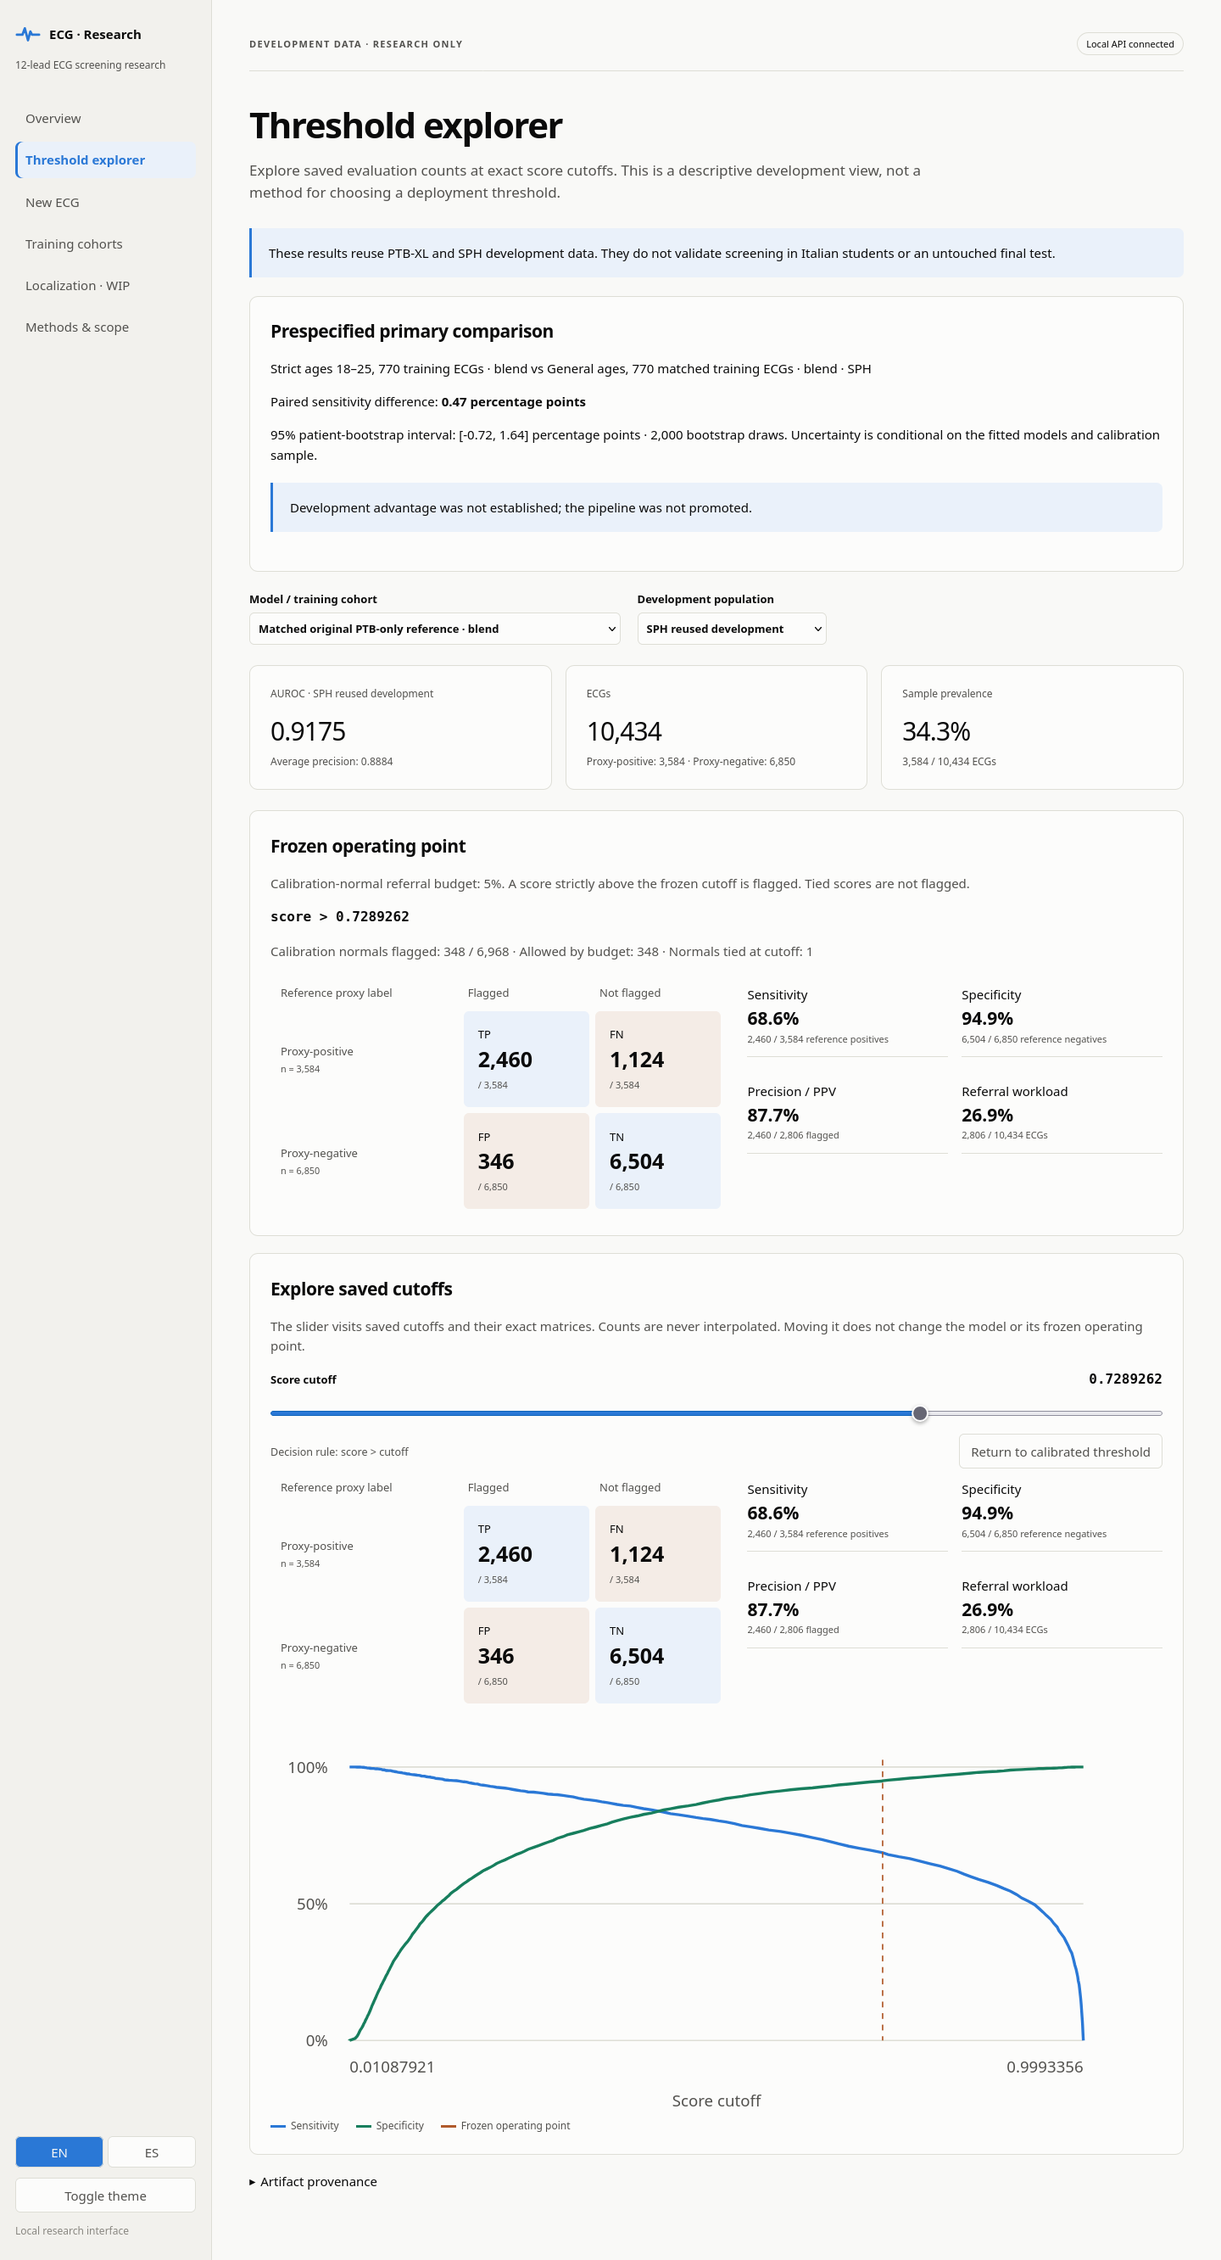
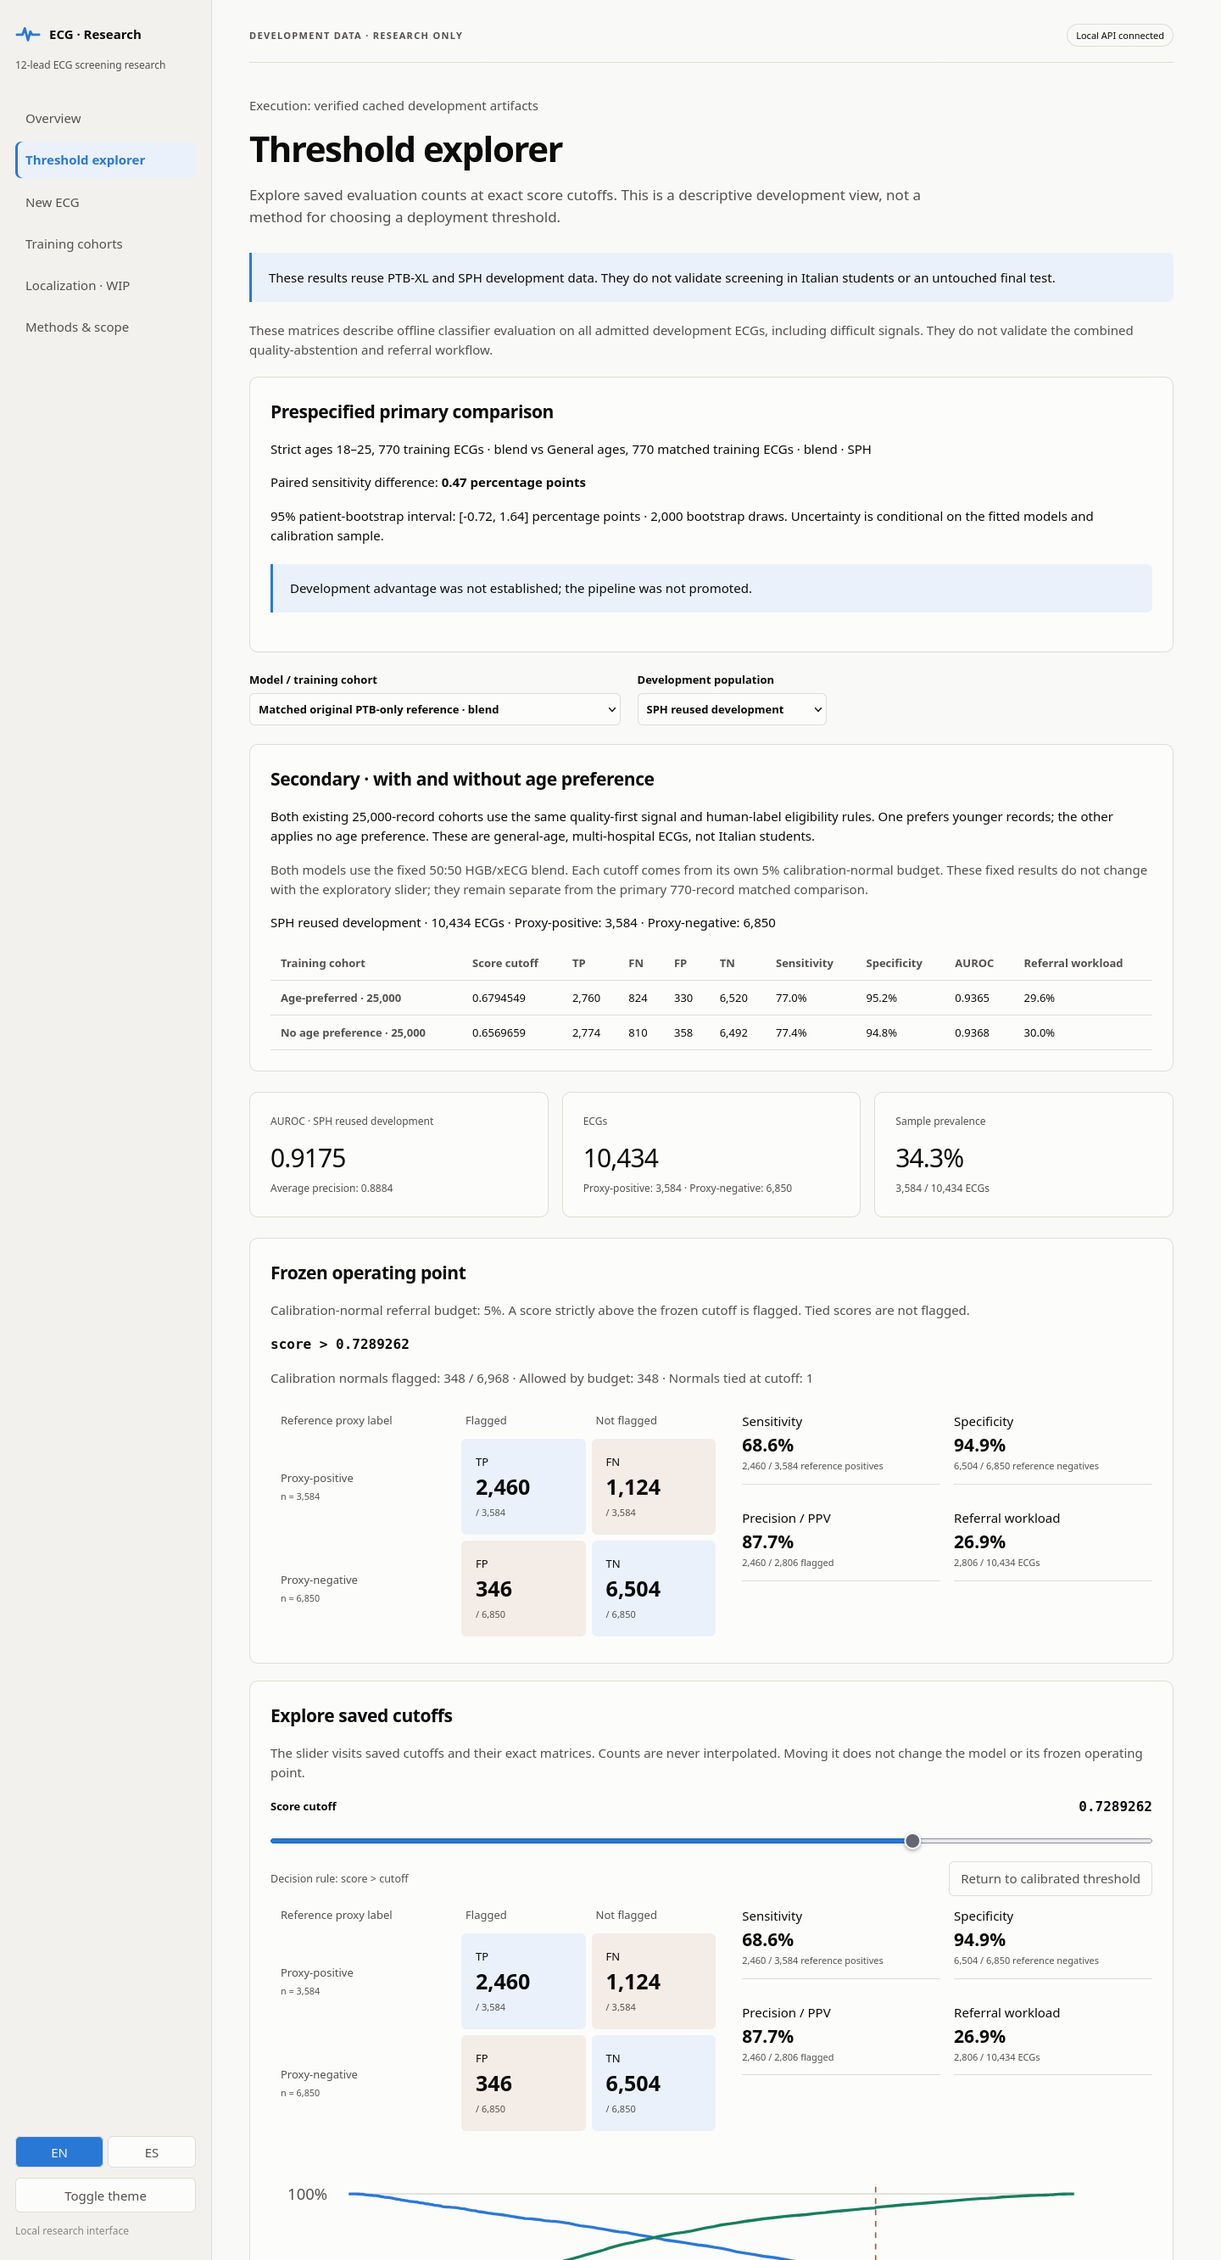
Compare age-preferred and general cohorts side by side [skip ci]

diff --git a/ui/static/app.js b/ui/static/app.js
@@ -1,5 +1,6 @@
 import {copy} from './i18n.mjs';
 import {fraction, matrixAt, nearestIndex, parseCanonicalCSV} from './matrix.mjs';
+import {ageComparisonRows} from './comparison.mjs';
 
 const state = {lang:'en', evaluation:null, cohorts:null, status:null, model:0, pool:0, cutoff:0};
 const content = document.querySelector('#content');
@@ -61,6 +62,18 @@ function primaryHTML() {
   return panel(`<h2>${t('primaryComparison')}</h2><p>${escape(labels[value.first])} vs ${escape(labels[value.second])} · ${escape(value.site.toUpperCase())}</p><p>${t('pairedDifference')}: <strong>${(100 * interval.difference).toFixed(2)} ${t('percentagePoints')}</strong></p><p>${t('interval')}: [${(100 * interval.ci_low).toFixed(2)}, ${(100 * interval.ci_high).toFixed(2)}] ${t('percentagePoints')} · ${integer(interval.draws)} ${t('draws')}. ${t('conditional')}</p><div class="notice">${t(value.development_advantage ? 'advantage' : 'noAdvantage')}</div>`);
 }
 
+function ageComparisonHTML(pool) {
+  const rows = ageComparisonRows(state.evaluation, pool.pool);
+  if (!rows.length) return '';
+  const headings = [t('cohort'), t('threshold'), 'TP', 'FN', 'FP', 'TN', t('sensitivity'), t('specificity'), 'AUROC', t('referral')];
+  const body = rows.map(row => {
+    const m = row.metrics;
+    const values = [cutoff(row.threshold), ...['tp','fn','fp','tn'].map(key => integer(m[key])), percent(m.sensitivity), percent(m.specificity), decimal(m.auroc), percent(m.referral_fraction)];
+    return `<tr data-model-id="${row.id}" data-pool="${escape(row.pool)}"><th scope="row">${t(row.labelKey)}</th>${values.map(value => `<td>${value}</td>`).join('')}</tr>`;
+  }).join('');
+  return panel(`<h2>${t('ageComparison')}</h2><p>${t('ageComparisonText')}</p><p class="muted">${t('ageComparisonFixed')}</p><p>${escape(pool.label)} · ${integer(pool.metrics.ecgs)} ${t('records')} · ${t('positive')}: ${integer(pool.metrics.positives)} · ${t('negative')}: ${integer(pool.metrics.negatives)}</p><div class="table-wrap" tabindex="0" role="region" aria-label="${t('ageComparison')}"><table class="data age-comparison" id="age-comparison"><thead><tr>${headings.map(value => `<th scope="col">${value}</th>`).join('')}</tr></thead><tbody>${body}</tbody></table></div>`);
+}
+
 function evaluation() {
   const header = heading('evaluation', 'evalIntro') + notice('scope') + `<p class="muted">${t('offlineEvaluation')}</p>`;
   if (!state.evaluation) return header + panel(`<h2>${t('noEvaluation')}</h2><p>${t('noEvaluationText')}</p>`);
@@ -69,7 +82,7 @@ function evaluation() {
   const descriptors = `<div class="cards"><div class="card"><small>AUROC · ${escape(pool.label)}</small><div class="value">${decimal(matrix.auroc)}</div><small>Average precision: ${decimal(matrix.average_precision)}</small></div><div class="card"><small>${t('records')}</small><div class="value">${integer(matrix.ecgs)}</div><small>${t('positive')}: ${integer(matrix.positives)} · ${t('negative')}: ${integer(matrix.negatives)}</small></div><div class="card"><small>${t('prevalence')}</small><div class="value">${percent(fraction(matrix.positives, matrix.ecgs))}</div><small>${integer(matrix.positives)} / ${integer(matrix.ecgs)} ${t('records')}</small></div></div>`;
   const fixed = panel(`<h2>${t('frozen')}</h2><p class="muted">${t('frozenText')}</p><p class="threshold">score &gt; ${cutoff(pool.threshold)}</p><p class="muted">${t('calibration')}: ${integer(pool.calibration.flagged_normals)} / ${integer(pool.calibration.normals)} · ${t('allowed')}: ${integer(pool.calibration.allowed_normals)} · ${t('tied')}: ${integer(pool.calibration.tied_normals)}</p><div class="grid-two">${matrixHTML(matrix)}${ratesHTML(matrix)}</div>`);
   const explore = panel(`<h2>${t('explore')}</h2><p class="muted">${t('exploreText')}</p><div class="slider-label"><label for="cutoff">${t('threshold')}</label><output id="cutoff-value" class="threshold"></output></div><input id="cutoff" class="slider" type="range" min="0" max="${pool.sweep.threshold.length - 1}" step="1" value="${state.cutoff}" aria-describedby="cutoff-help"><div class="slider-label"><small id="cutoff-help">${t('comparison')}</small><button class="secondary" id="reset">${t('reset')}</button></div><div class="grid-two"><div id="exploratory-matrix"></div><div id="exploratory-rates"></div></div>${plotHTML(pool)}`);
-  return header + primaryHTML() + controls + descriptors + fixed + explore + `<details><summary>${t('provenance')}</summary><p><small>${t('artifactHash')}</small><br><code>${escape(state.evaluation.artifact_sha256)}</code></p></details>`;
+  return header + primaryHTML() + controls + ageComparisonHTML(pool) + descriptors + fixed + explore + `<details><summary>${t('provenance')}</summary><p><small>${t('artifactHash')}</small><br><code>${escape(state.evaluation.artifact_sha256)}</code></p></details>`;
 }
 
 function recording() {

diff --git a/ui/static/styles.css b/ui/static/styles.css
@@ -66,6 +66,9 @@ button.secondary { color:var(--tinta-2); background:var(--superficie); border:1p
 table.data { border-collapse:collapse; width:100%; text-align:left; font-size:13px; }
 table.data th,table.data td { padding:10px 12px; border-bottom:1px solid var(--borde); }
 table.data th { font-weight:550; color:var(--tinta-2); }
+.age-comparison { min-width:960px; font-variant-numeric:tabular-nums; }
+.age-comparison td { white-space:nowrap; }
+.age-comparison th:first-child { min-width:190px; }
 .plot { width:100%; height:auto; overflow:visible; }
 .plot text { fill:var(--tinta-2); font-size:11px; font-family:system-ui,sans-serif; }
 .plot line { stroke:var(--borde); }

diff --git a/scripts/validation/check_corrected_ui_browser.py b/scripts/validation/check_corrected_ui_browser.py
@@ -70,6 +70,32 @@ def local_url(value: str) -> str:
     return value.rstrip("/")
 
 
+def check_age_comparison(browser: Browser, evaluation: dict[str, Any],
+                         model: dict[str, Any]) -> tuple[str, Any]:
+    """Check the two registered blends at their fixed cutoff for each selected site."""
+    comparison_script = """return [...document.querySelectorAll('#age-comparison tbody tr')]
+        .map(row=>({id:row.dataset.modelId,pool:row.dataset.pool,
+            cells:[...row.querySelectorAll('td')].map(cell=>cell.textContent)}));"""
+    for index, population in enumerate(model["evaluations"]):
+        browser.script(f"const pool=document.querySelector('#pool'); pool.value={index}; "
+                       "pool.dispatchEvent(new Event('change',{bubbles:true})); return true")
+        actual_rows = browser.script(comparison_script)
+        if len(actual_rows) != 2:
+            raise ValueError("The fixed 25,000-record comparison is missing")
+        for actual, identity in zip(actual_rows, ("younger_blend", "all_age_blend"), strict=True):
+            arm = next(value for value in evaluation["models"] if value["id"] == identity)
+            point = next(value for value in arm["evaluations"]
+                         if value["pool"] == population["pool"])
+            counts = [int(value.replace(",", "")) for value in actual["cells"][1:5]]
+            if (actual["id"] != identity or actual["pool"] != population["pool"] or
+                    counts != [point["metrics"][key] for key in ("tp", "fn", "fp", "tn")] or
+                    float(actual["cells"][0]) != float(f'{point["threshold"]:.7g}')):
+                raise ValueError("The comparison mixed models, sites or exploratory cutoffs")
+    browser.script("const pool=document.querySelector('#pool'); pool.value=0; "
+                   "pool.dispatchEvent(new Event('change',{bubbles:true})); return true")
+    return comparison_script, browser.script(comparison_script)
+
+
 def check(app_url: str, driver_url: str, output: Path,
           firefox_binary: Path | None = None) -> dict[str, Any]:
     """Verify actual default, matrices, primary conclusion, cohorts and bilingual WIP rendering."""
@@ -87,6 +113,7 @@ def check(app_url: str, driver_url: str, output: Path,
         model = evaluation["models"][int(chosen)]
         if model["id"] != evaluation["default_model_id"]:
             raise ValueError("The UI did not preserve the prespecified default model")
+        comparison_script, fixed_comparison = check_age_comparison(browser, evaluation, model)
         browser.wait_for("return !!document.querySelector('#exploratory-matrix strong')")
         pool = model["evaluations"][0]
         positives, negatives = pool["metrics"]["positives"], pool["metrics"]["negatives"]
@@ -98,12 +125,21 @@ def check(app_url: str, driver_url: str, output: Path,
         last = browser.script(script.replace("VALUE", "slider.max"))
         if first != [positives, 0, negatives, 0] or last != [0, positives, 0, negatives]:
             raise ValueError("The browser's exact threshold endpoints disagree with saved counts")
+        if browser.script(comparison_script) != fixed_comparison:
+            raise ValueError("The exploratory slider changed the fixed cohort comparison")
         browser.script("document.querySelector('#reset').click(); return true")
         outcome = "return document.body.textContent.includes('Development advantage was not established')"
         if not browser.script(outcome):
             raise ValueError("The failed primary development comparison is not visible")
         browser.screenshot(output / "evaluation.png", 1440, 2750)
+        browser.command("POST", "/window/rect", {"width": 390, "height": 1600})
+        browser.script("document.querySelector('#age-comparison').closest('.panel').scrollIntoView(); "
+                       "return true")
+        browser.screenshot(output / "age-comparison-mobile.png", 390, 1600)
+        if browser.script("return document.documentElement.scrollWidth > window.innerWidth"):
+            raise ValueError("The mobile evaluation view overflows outside its scrollable table")
         browser.command("POST", "/url", {"url": app_url + "/#cohorts"})
+        browser.script("window.scrollTo(0,0); return true")
         browser.wait_for("return document.body.textContent.includes('Strict ages 18–25')")
         expected_counts = [cohorts["primary"]["cohorts"][name]["records"]
                            for name in ("strict_18_25", "general_matched_size")]
@@ -118,17 +154,31 @@ def check(app_url: str, driver_url: str, output: Path,
         browser.script("document.querySelector('#spanish').click(); return true")
         if not browser.script("return document.documentElement.lang === 'es'"):
             raise ValueError("The Spanish interface did not switch")
+        check_spanish_comparison(browser, app_url)
         browser.command("POST", "/url", {"url": app_url + "/#localization"})
         browser.wait_for("return document.body.textContent.includes('La localización sigue en desarrollo')")
         if browser.script("return document.querySelectorAll('main svg').length"):
             raise ValueError("An unverified localization plot was shown")
         return {"complete": True, "executed_models": len(evaluation["models"]),
                 "default_model": model["id"], "strict_threshold_extremes_match": True,
+                "age_comparison_both_sites_fixed_counts": True,
+                "age_comparison_independent_of_slider": True,
                 "primary_failed_conclusion_visible": True, "primary_cohort_counts_visible": True,
                 "mobile_overflow": False, "spanish_switch": True, "localization_status_only": True,
-                "screenshots": ["evaluation.png", "cohorts.png", "cohorts-mobile.png"]}
+                "screenshots": ["evaluation.png", "age-comparison-mobile.png",
+                                "cohorts.png", "cohorts-mobile.png"]}
     finally:
         browser.command("DELETE", "")
+
+
+def check_spanish_comparison(browser: Browser, app_url: str) -> None:
+    """Show both translated cohort labels without changing fixed model identities."""
+    browser.command("POST", "/url", {"url": app_url + "/#evaluation"})
+    browser.wait_for("return !!document.querySelector('#age-comparison')")
+    if not browser.script("""const table=document.querySelector('#age-comparison');
+        return table.textContent.includes('Preferencia por jóvenes · 25.000') &&
+            table.textContent.includes('Sin preferencia de edad · 25.000');"""):
+        raise ValueError("The two cohort labels were not translated into Spanish")
 
 
 def main() -> None:

diff --git a/docs/pr74-ui-corrections-2026-10-28-results.md b/docs/pr74-ui-corrections-2026-10-28-results.md
@@ -13,8 +13,9 @@ or unrestricted dataset viewer. The local interface has English and Spanish view
   fixed cached/from-raw namespace pairing without fallback.
   The frozen quality helper emits its existing spectral warnings for the synthetic all-flat input;
   that input still abstains and produces no score.
-- All three Node tests passed: exact saved-cutoff extremes/ties, empty and single-class denominators,
-  and explicit canonical CSV parsing without missing-value zero imputation. JavaScript syntax and
+- All four Node tests passed: exact saved-cutoff extremes/ties, empty and single-class denominators,
+  explicit canonical CSV parsing without missing-value zero imputation, and fixed age-preference
+  comparison mappings by model identity and evaluation site. JavaScript syntax and
   targeted Ruff checks passed, including the UI and browser-check source.
 - The real aggregate API validated the completed 15-model, two-site evaluation and its fixed
   `ptb_baseline_blend` default. The primary comparison's failed development-advantage decision is visible;
@@ -22,6 +23,10 @@ or unrestricted dataset viewer. The local interface has English and Spanish view
 - A headless Firefox check against the running localhost app passed exact all-flagged/no-flagged matrix
   endpoints, the frozen default, primary conclusion, both actual 770-record cohort cards, mobile layout,
   Spanish switching and status-only localization. There was no horizontal mobile overflow.
+- The secondary 25,000-record comparison table passed real browser checks against the aggregate API
+  for both PTB and SPH: correct `younger_blend`/`all_age_blend` rows, each model's own calibrated cutoff,
+  and exact TP/FN/FP/TN counts. Moving the exploratory slider did not change this fixed comparison.
+  Both cohort labels rendered in Spanish; the wide table scrolls inside its mobile container.
 - Real API inference passed on one explicitly admitted PTB training ECG after checking its canonical
   waveform hash. The verified default blend returned a finite score and a consistent strict comparison.
   The verified runtime also loaded successfully with `CUDA_HOME` initially unset, using only already
@@ -58,6 +63,10 @@ The primary strict-age/matched-control cohorts remain distinct from the secondar
 selections. Source composition, label-evidence ranks, exact-age summaries and missing/censored ages are
 reported from completed aggregate artifacts. They are hospital ECGs, not an Italian student sample.
 PTB/SPH evaluations are reused development evidence, not an untouched final test or clinical validation.
+The threshold view directly compares the existing age-preferred and no-age-preference 25,000-record
+cohorts, using their fixed 50:50 blends and separate calibration-only 5% normal-budget cutoffs. Both
+cohorts retain the same quality and label-admission rules. This display uses completed results and
+requires no additional cohort selection or training.
 
 Localization is explicitly optional work in progress. No unverified interval plot, confirmed disease
 location or improvement claim is shown, and localization cannot affect the referral result. Unsupported

diff --git a/ui/README.md b/ui/README.md
@@ -2,8 +2,11 @@
 
 This app adapts PR 74's sidebar, ECG mark and visual palette around new reproducible development results.
 It displays the primary strict-age/matched-control and secondary expanded-age cohort summaries,
-exact confusion matrices across saved score
-cutoffs, and a quality-gated analysis of a newly provided canonical ECG. English and Spanish are available.
+exact confusion matrices across saved score cutoffs, and a quality-gated analysis of a newly provided
+canonical ECG. The threshold view also compares the existing age-preferred and no-age-preference
+25,000-record cohorts side by side for the selected evaluation site. Each fixed 50:50 blend uses its own
+calibration-only 5% normal-budget cutoff; the exploratory slider never changes those comparison rows.
+Both cohorts use the same quality and label-admission rules. English and Spanish are available.
 
 The old PR's serialized models, alternative diagnosis target, validation prediction CSVs and diagnosis
 hit-rate claims are not imported. No missing notebooks or historical training steps are reconstructed by
@@ -165,5 +168,6 @@ python -m scripts.validation.check_corrected_ui_browser \
 
 Use `--firefox-binary` when the browser needs an explicit executable. This check uses only aggregate
 API data: it checks the fixed default, exact slider endpoints, the failed primary-comparison conclusion,
-actual cohort counts, mobile layout, Spanish switching and status-only localization. It saves no raw ECG
+the secondary table's exact model/site counts and cutoffs, slider independence, actual cohort counts,
+mobile layout, Spanish switching and status-only localization. It saves no raw ECG
 or individual prediction. The screenshot files are concrete review artifacts for this corrective PR.
